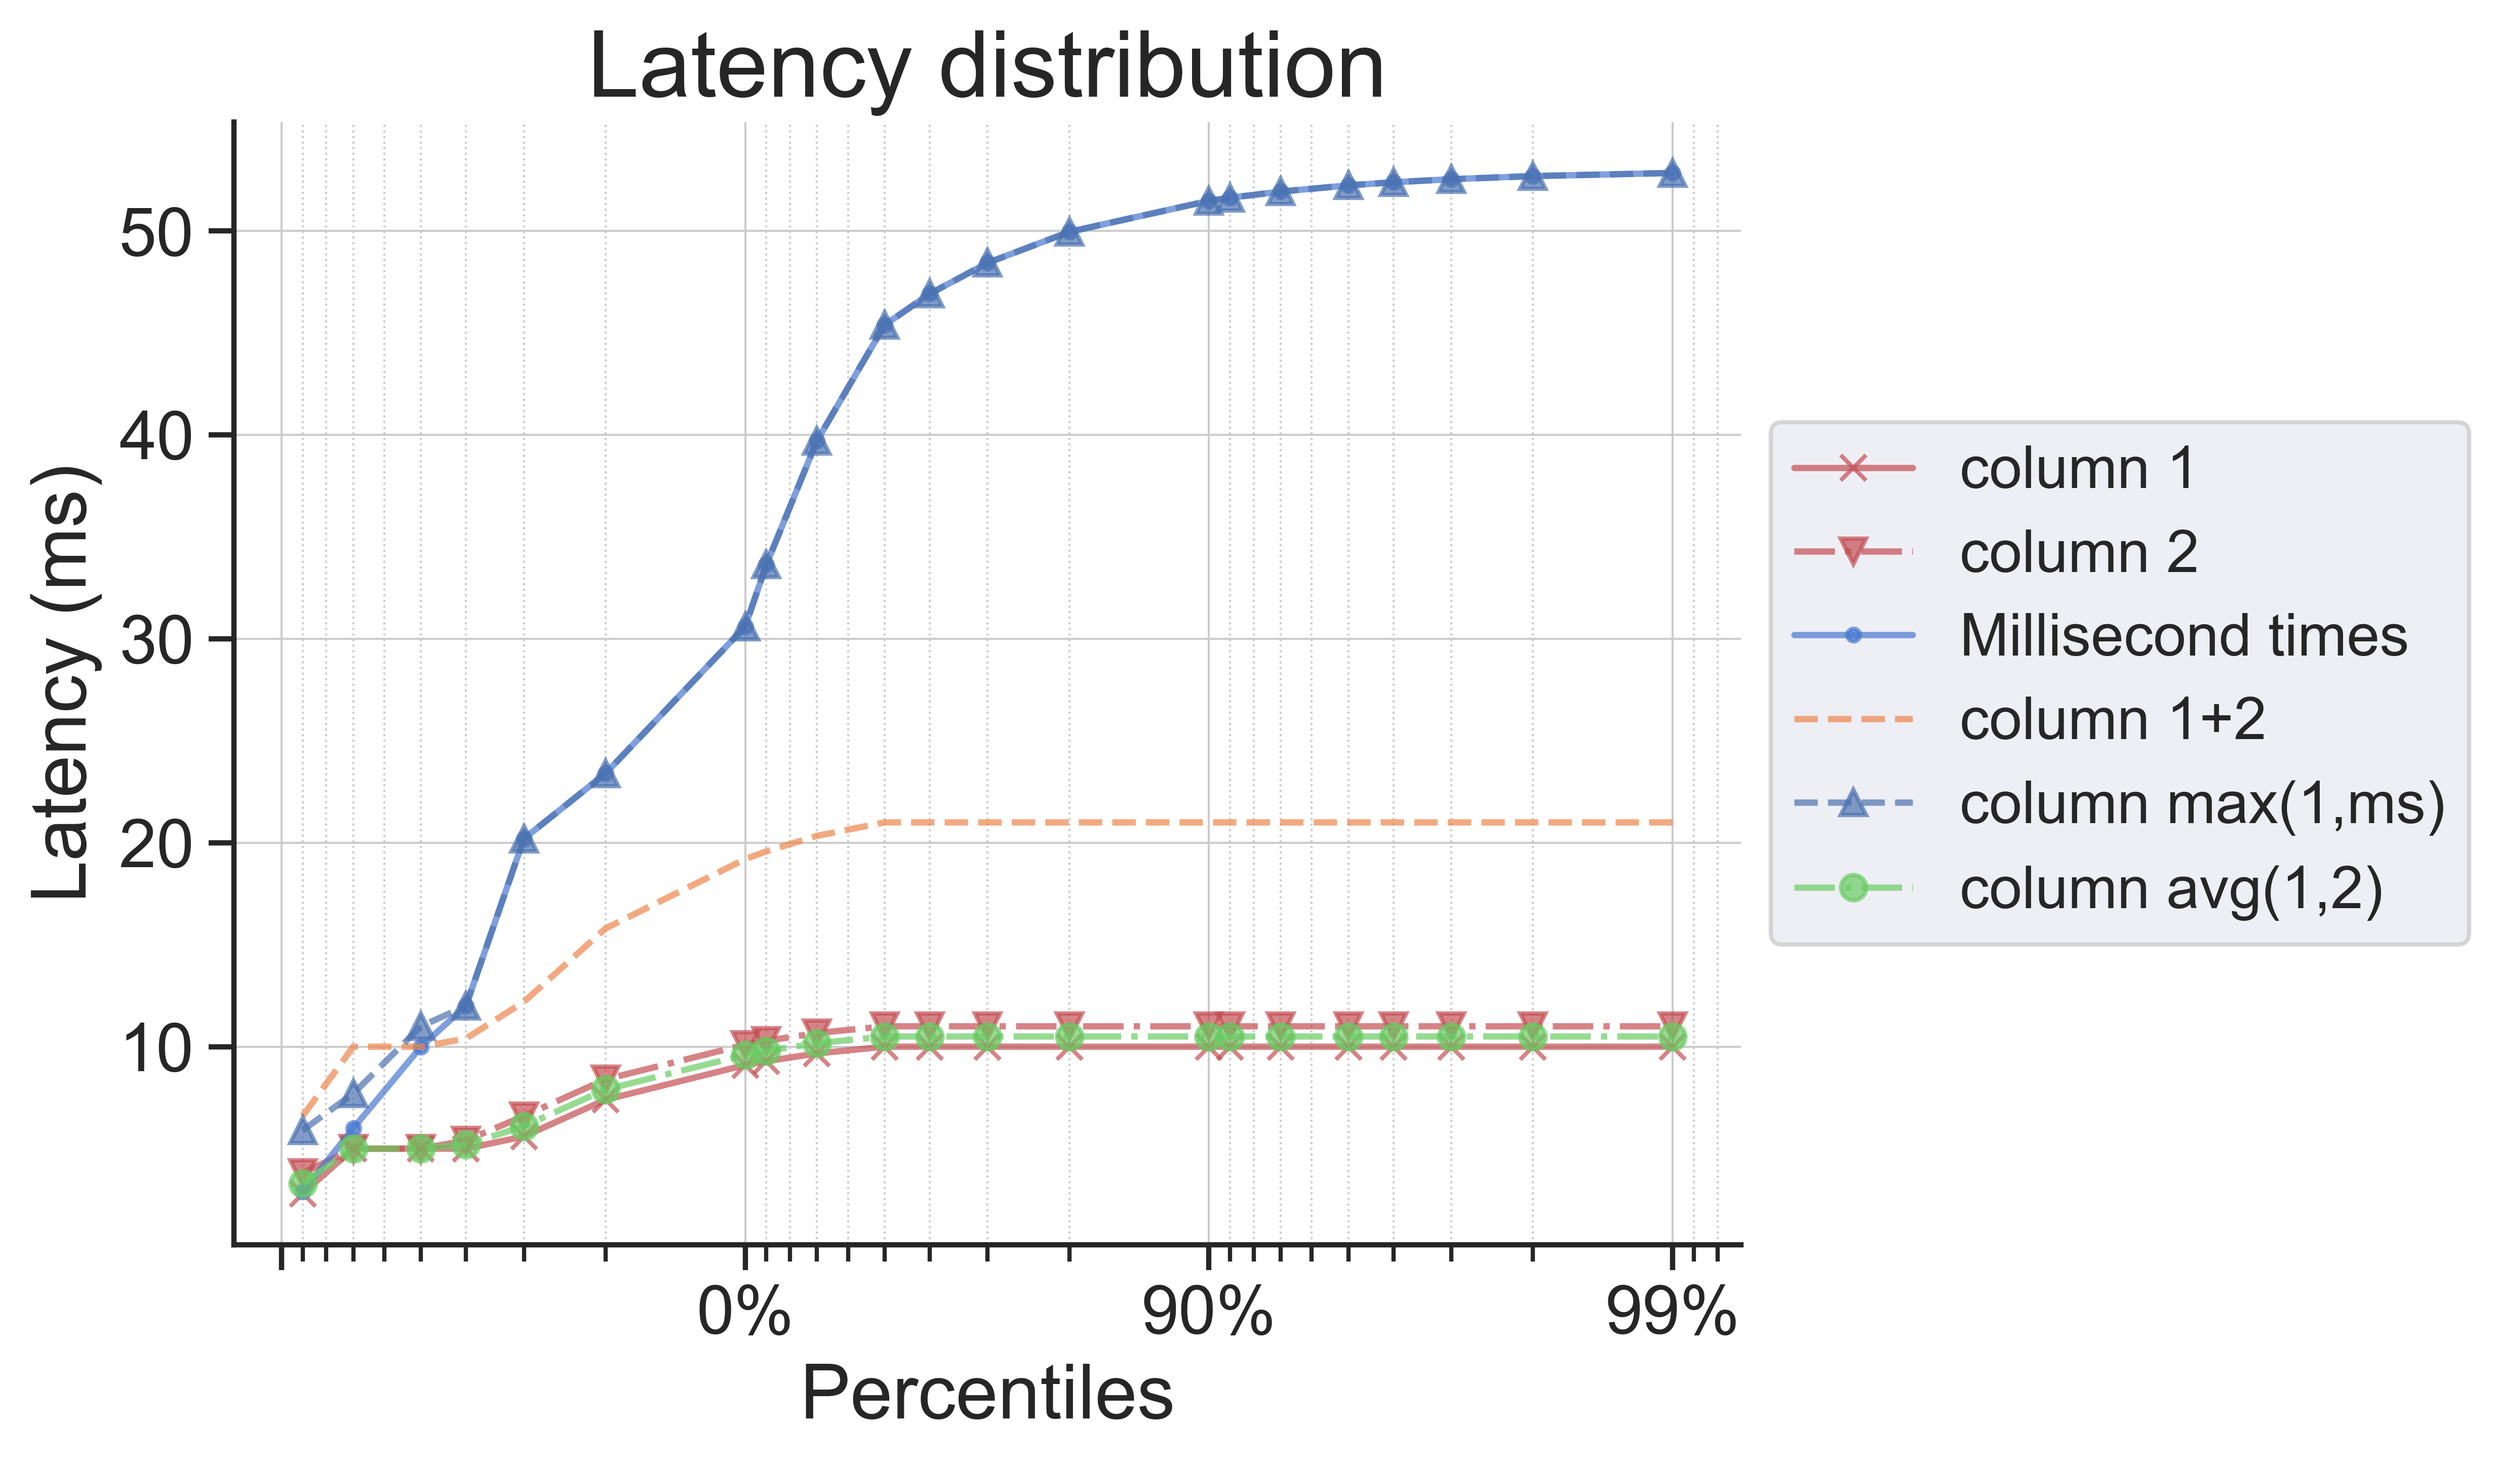
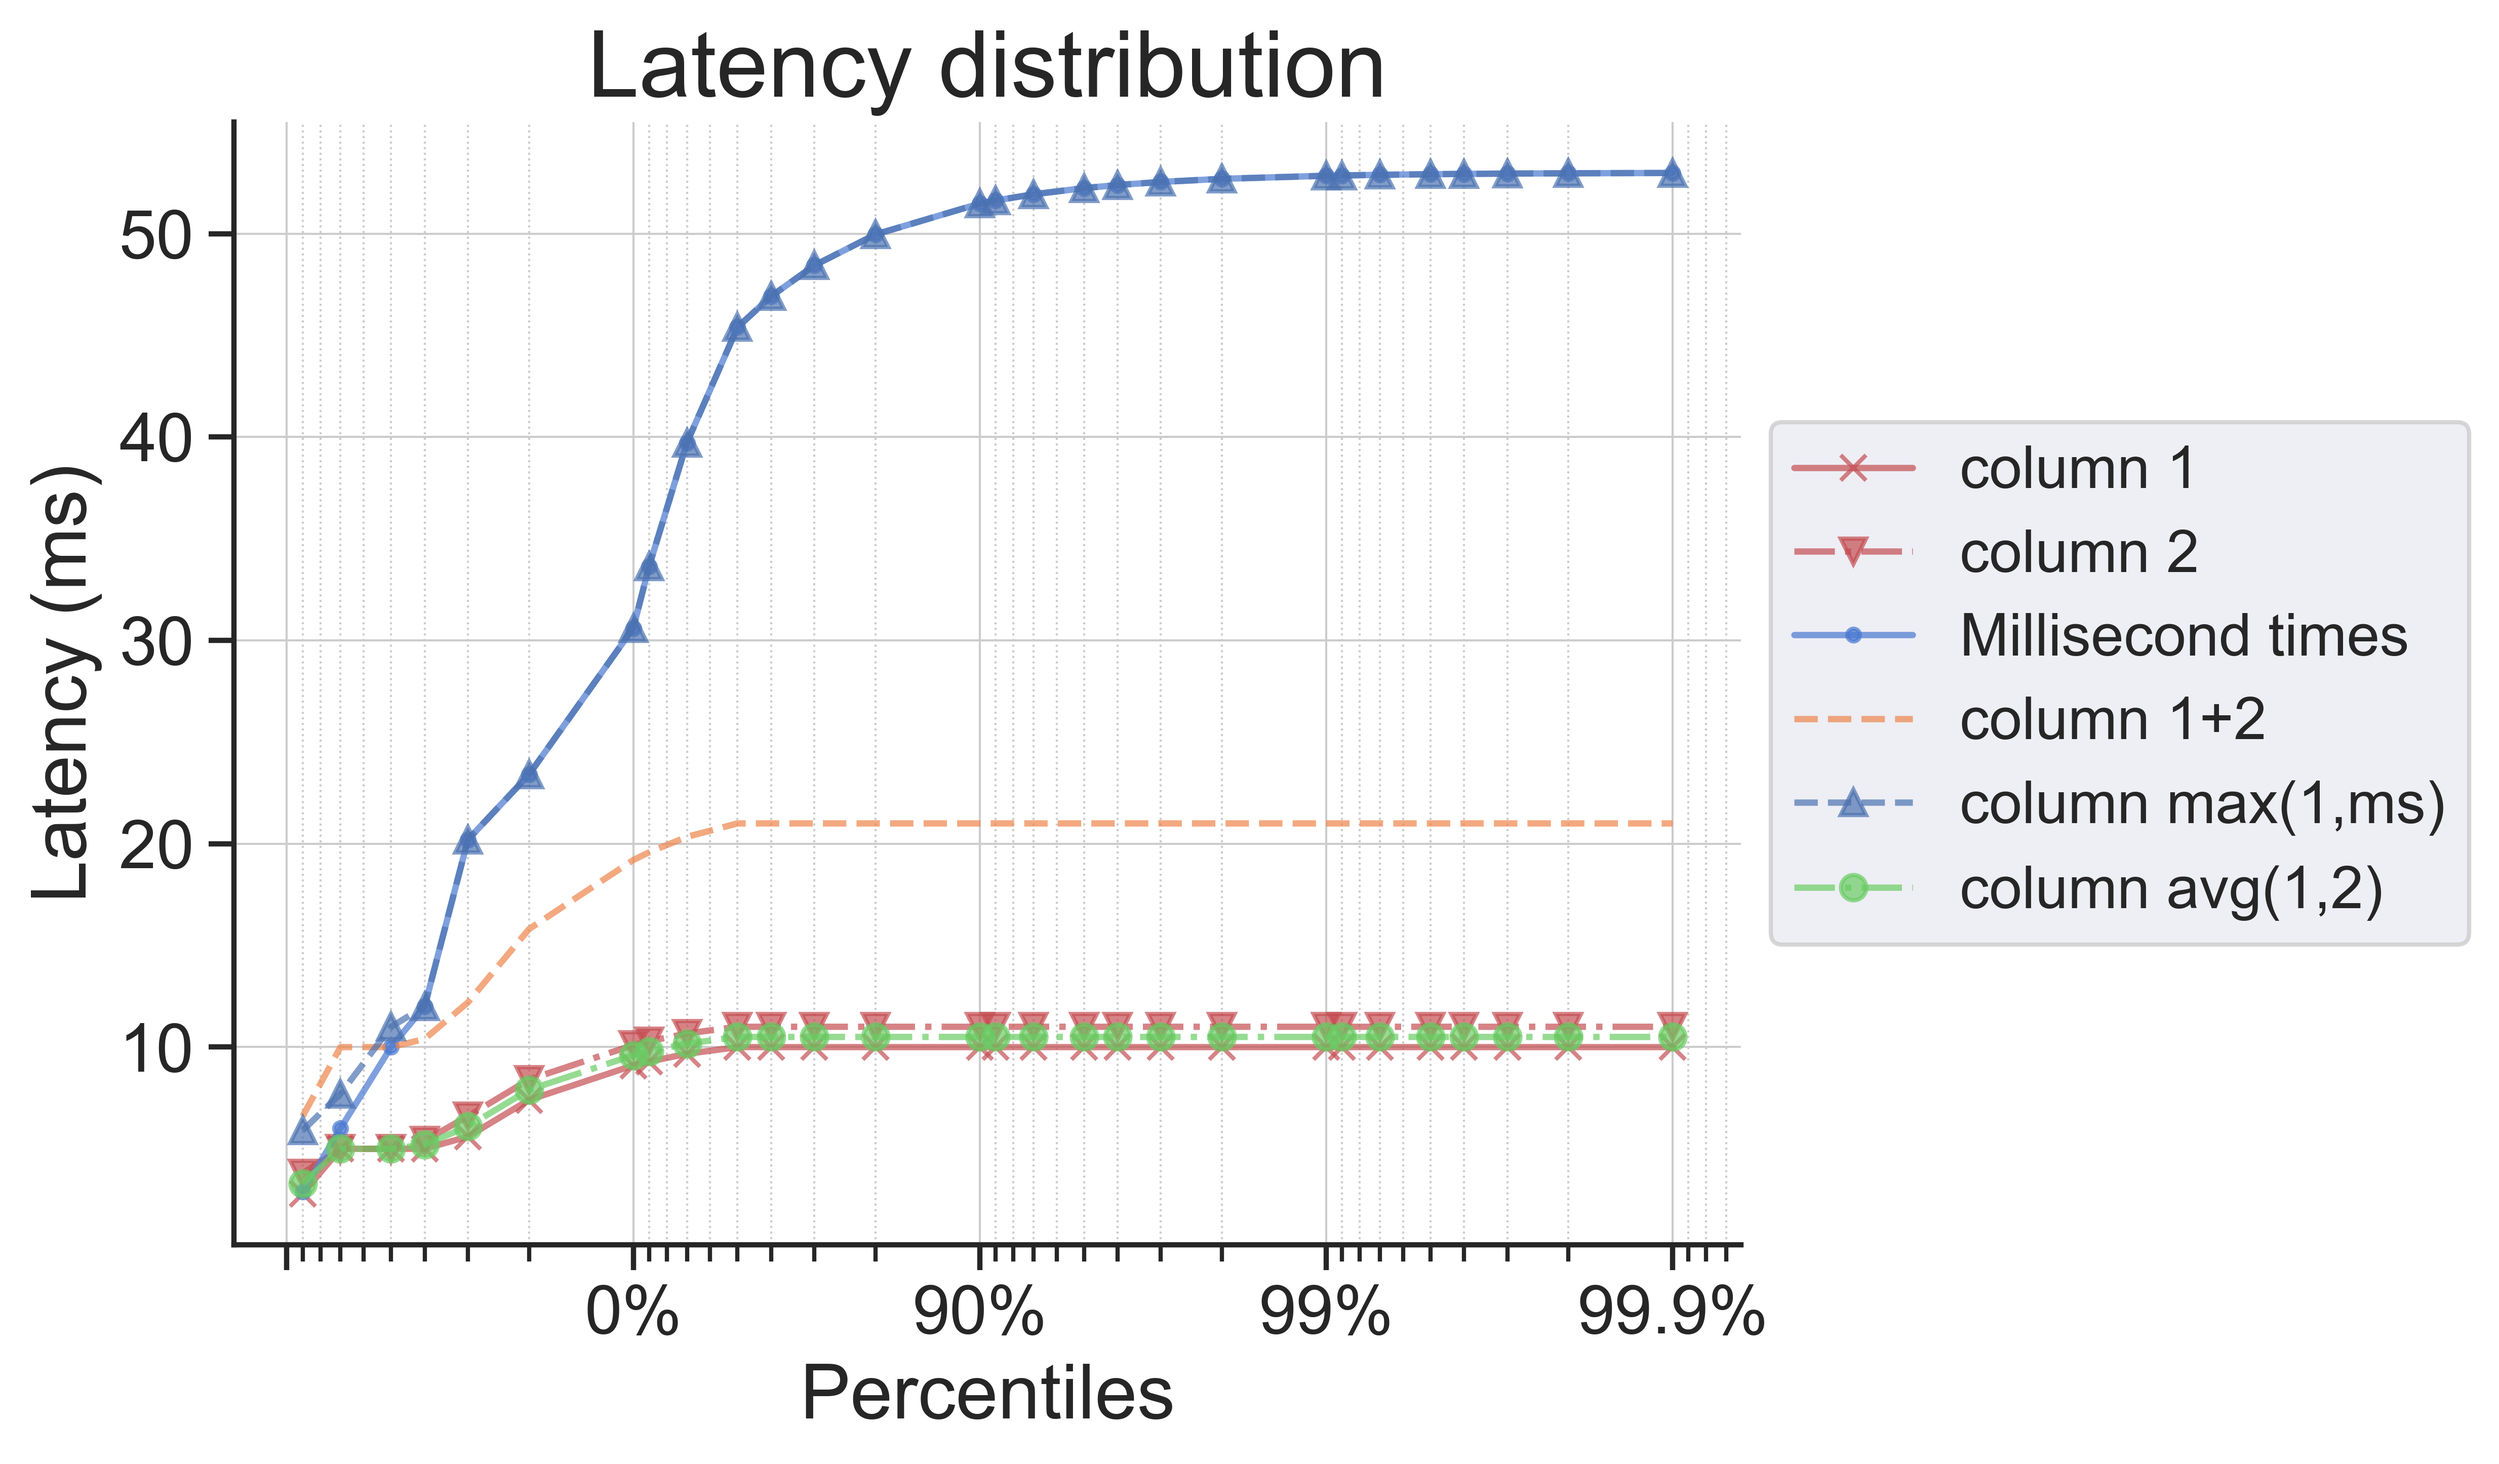
Remove debug prints

diff --git a/prettypercentiles.py b/prettypercentiles.py
@@ -67,8 +67,6 @@ def handle_preprocessing(value, columns):
         column_name = value[0]
         return func(columns[column_name])
     else:
-        print(type(value))
-        print(value)
         return columns[value]
 
 

diff --git a/configs/example_config.py b/configs/example_config.py
@@ -33,7 +33,7 @@ Amount of intervals to display
 For example 0-90, 90-99, 99-99.9, 99.9-99.99 are the first four intervals and so on.
 Must be at least 1
 """
-num_intervals = 3
+num_intervals = 4
 
 """
 String: source_csv
